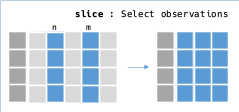
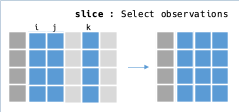
:memo: Fix image and useless line

diff --git a/doc/DataFrame.md b/doc/DataFrame.md
@@ -9,9 +9,7 @@ Class `RedAmber::DataFrame` represents 2D-data. `DataFrame` consists with:
 
 ![dataframe model image](doc/../image/dataframe_model.png)
 
----
 ## Constructors and saving
----
 
 ### `new` from a columnar Hash
 
@@ -78,9 +76,7 @@ Class `RedAmber::DataFrame` represents 2D-data. `DataFrame` consists with:
   dataframe.save("file.parquet")
   ```
 
----
 ## Properties
----
 
 ### `table`
 
@@ -136,9 +132,7 @@ Class `RedAmber::DataFrame` represents 2D-data. `DataFrame` consists with:
  
 ### `empty?`
 
----
 ## Output
----
 
 ### `to_s`
 
@@ -193,9 +187,7 @@ Class `RedAmber::DataFrame` represents 2D-data. `DataFrame` consists with:
    ... 5 more Vectors ...
   ```
 
----
 ## Selecting
----
 
 ### Select variables (columns in a table) by `[]` as `[key]`, `[keys]`, `[keys[index]]`
 - Key in a Symbol: `df[:symbol]`
@@ -279,9 +271,7 @@ Class `RedAmber::DataFrame` represents 2D-data. `DataFrame` consists with:
 
   `head(n=5)`, `tail(n=5)`, `first(n=1)`, `last(n=1)`
 
----
 ## Sub DataFrame manipulations
----
 
 ### `pick`
 
@@ -665,9 +655,7 @@ Class `RedAmber::DataFrame` represents 2D-data. `DataFrame` consists with:
 
   Symbol key and String key are considered as the same key.
 
----
 ## Updating
----
 
 - [ ] Update elements matching a condition
 
@@ -677,9 +665,7 @@ Class `RedAmber::DataFrame` represents 2D-data. `DataFrame` consists with:
 
 - [ ] Clear data
 
----
 ## Treat na data
----
 
 - [ ] Drop na (NaN, nil)
 
@@ -687,9 +673,7 @@ Class `RedAmber::DataFrame` represents 2D-data. `DataFrame` consists with:
 
 - [ ] Interpolate na with convolution array
 
----
 ## Combining DataFrames
----
 
 - [ ]  obs
 
@@ -699,9 +683,7 @@ Class `RedAmber::DataFrame` represents 2D-data. `DataFrame` consists with:
 
 - [ ] Left join
 
----
 ## Encoding
----
 
 - [ ] One-hot encoding
 

diff --git a/doc/Vector.md b/doc/Vector.md
@@ -2,9 +2,7 @@
 
 Class `RedAmber::Vector` represents a series of data in the DataFrame.
 
----
 ## Constructor
----
 
 ### Create from a column in a DataFrame
   
@@ -25,9 +23,7 @@ Class `RedAmber::Vector` represents a series of data in the DataFrame.
   [1, 2, 3]
   ```
 
----
 ## Properties
----
 
 ### `to_s`
 
@@ -64,9 +60,7 @@ Class `RedAmber::Vector` represents a series of data in the DataFrame.
     [1, 2, 3, 4, 5, 6, 7, 8, 9, 10, 11, 12, 13, 14, 15, 16, 17, 18, 19, 20, 21, 22, ... ]
     ```
 
----
 ## Functions
----
 
 ### Unary aggregations: `vector.func => scalar`
 
